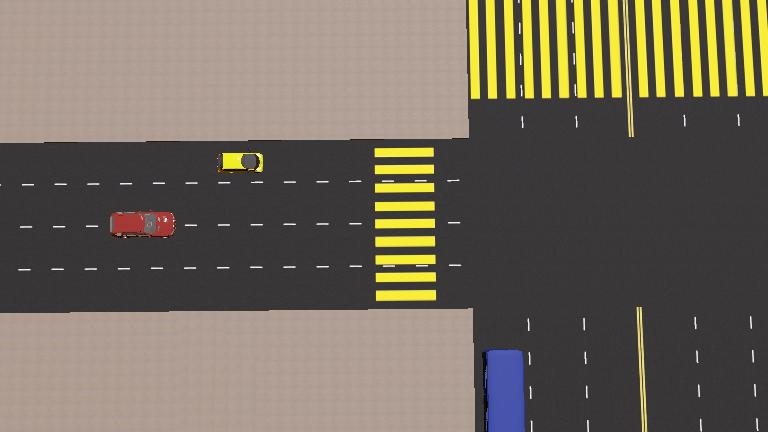
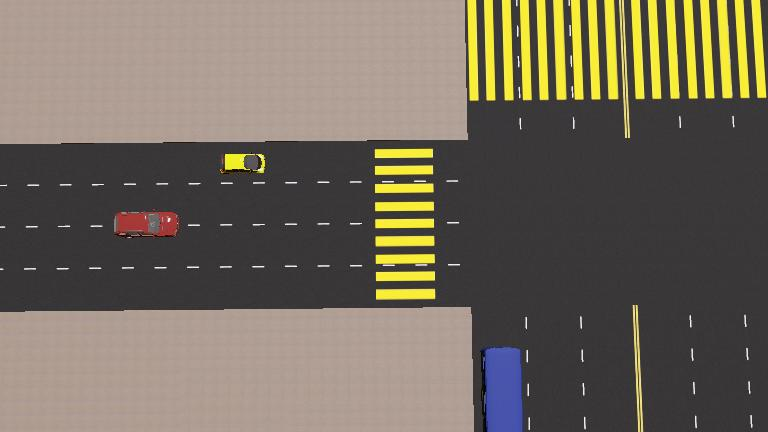
chore

diff --git a/working_space/controllers/TeslaModel3/TeslaModel3.py b/working_space/controllers/TeslaModel3/TeslaModel3.py
@@ -59,11 +59,13 @@ def webots_sim():
         # rrt_star = RRTStarPlanner(grid_map, start, goal, tesla_state.v)
         # points_waypoint = rrt_star.plan()
         # if points_waypoint is None:
+        #     print('No Path, Retry')
         #     continue
 
         # """ 디버깅 용도 """
         middle_point = np.array([(start[X] + points_collision[i, X]) / 2, 
                                  (start[Y] + points_collision[i, Y]) / 2])
+        # 수기로 입력
         points_waypoint = np.vstack([start, middle_point, points_collision[i]])
         points_waypoint = np.hstack((points_waypoint, np.zeros((points_waypoint.shape[0], 1))))
 

diff --git a/working_space/controllers/TeslaModel3/lib/convention.py b/working_space/controllers/TeslaModel3/lib/convention.py
@@ -20,7 +20,7 @@ N_IND_SEARCH        = 10                                # [th] Search indextic V
 
 GOAL_DIS            = 10.0  #                           # [m] goal distance
 STOP_SPEED          = 10 / 3.6                          # [m/s] stop speed
-TARGET_SPEED        = 36 / 3.6                         # [m/s] target speed
+TARGET_SPEED        = 72 / 3.6                         # [m/s] target speed
 DL                  = 1.0                               # course tick
 N_IND_SEARCH        = 10                                # Search index number
 MAX_SPEED           = 261.0 / 3.6                       # maximum speed [m/s]  # 261.0 km/h

diff --git a/working_space/controllers/TeslaModel3/util/plot.py b/working_space/controllers/TeslaModel3/util/plot.py
@@ -10,7 +10,7 @@ def plot_init():
     ###################################################
     plt.close("all")
     plt.figure(figsize=(5, 3))
-    plt.title(f'Path Planning and Tracking {TARGET_SPEED * 3.6}[km/h]', fontsize=16)
+    plt.title(f'Path Planning and Tracking[km/h]', fontsize=16)
     plt.xlabel("X [m]", fontsize=12)
     plt.ylabel("Y [m]", fontsize=12)
     plt.grid(True)